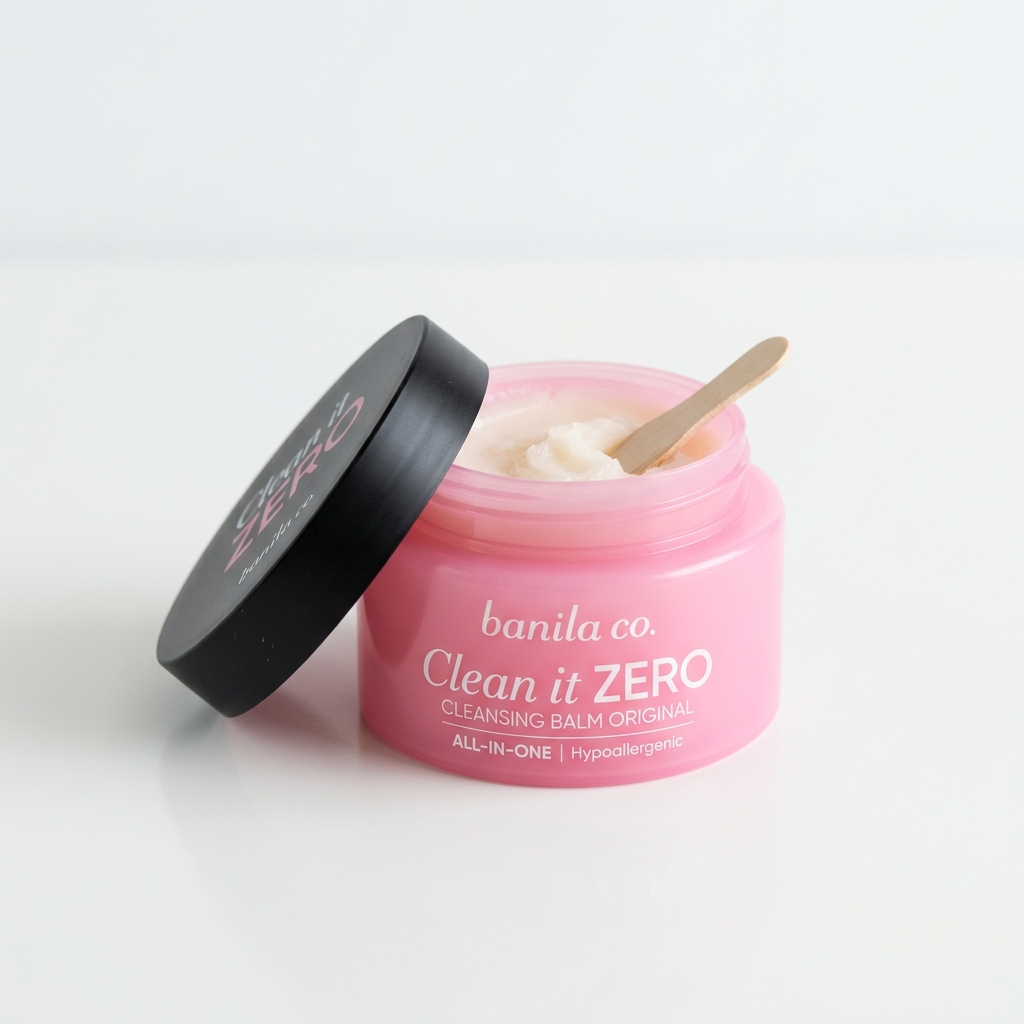
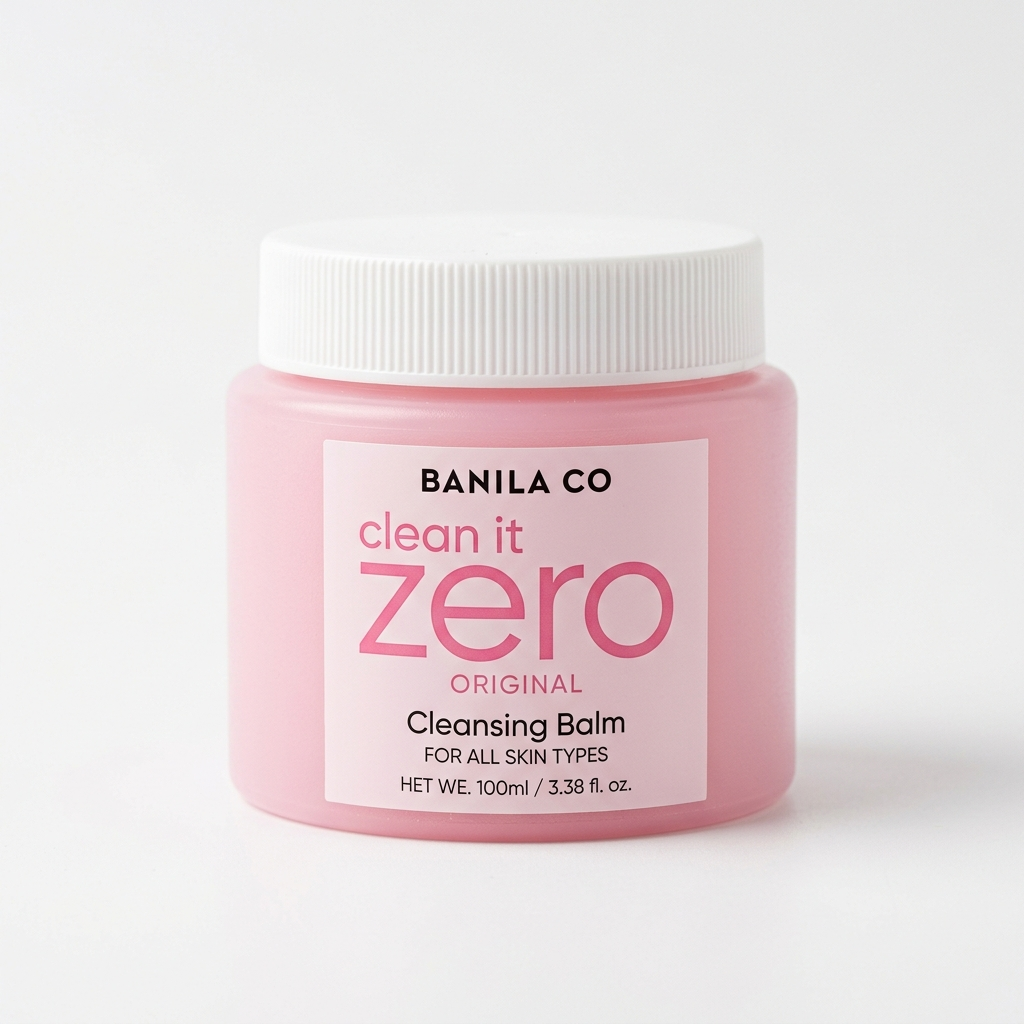
Fix Banila Co / Fillimilli product images and add Taiwan MOMO shopping search links for all 20 products

diff --git a/app.js b/app.js
@@ -404,28 +404,28 @@ const itineraryData = [
   }
 ];
 
-// Olive Young 必買商品 20 款完整資料集 (採用專案本地 100% 永不失效高畫質圖檔與正版繁中詳情頁)
+// Olive Young 必買商品 20 款完整資料集 (採用專案本地 100% 永不失效高畫質圖檔與雙購物管道: 台灣 MOMO/PChome + Olive Young 官網)
 const oyProductsData = [
-  {"id": "mediheal", "time": "01:37", "name": "MEDIHEAL 精華面膜片", "en_name": "MEDIHEAL Essential Mask", "category": "skincare", "category_zh": "臉部護理", "img_url": "./images/oy/mediheal.jpg", "raw_img": "https://global.oliveyoung.com/product/detail?prdtNo=GA250128210&lang=zh_TW", "features": "高濃度精華、服貼度高、高CP值", "skin_type": "所有膚質，特別是缺水肌與需要曬後鎮靜者", "reason": "金針菇姐姐強烈推薦的國民面膜。精華液含量極高，面膜紙薄且貼合度優秀。在 Olive Young 購買通常有 10 片一盒的包裝，並且常常有 1+1 (買一送一) 的促銷活動，是去韓國必囤的保濕聖品。", "tips": "建議洗完臉後敷 10-15 分鐘，取下後輕輕按摩至吸收，再擦上乳液鎖水。若有醫美術後泛紅，綠色積雪草款是很好的鎮靜選擇。"},
-  {"id": "biodance", "time": "03:25", "name": "Biodance 膠原蛋白深層全效面膜", "en_name": "Biodance Bio-Collagen Real Deep Mask", "category": "skincare", "category_zh": "臉部護理", "img_url": "./images/oy/biodance.jpg", "raw_img": "https://global.oliveyoung.com/product/detail?prdtNo=GA230418238&lang=zh_TW", "features": "水凝膠材質、敷完變透明、深層彈力", "skin_type": "乾性肌、熟齡肌、暗沉無光澤肌", "reason": "近期紅遍全球的「敷著睡覺面膜」。它是果凍般的水凝膠材質，敷上後面膜中的超低分子玻尿酸與膠原蛋白會慢慢被肌膚吸收，面膜會隨時間變為完全透明。能顯著改善毛孔與提亮膚色。", "tips": "適合在夜間保養的最後一步使用，建議敷 3-4 小時以上（甚至敷著入睡），醒來後撕下即可看見驚人的水光感與澎潤肌膚。", "badge": "熱銷斷貨王"},
-  {"id": "torriden", "time": "Klook推薦", "name": "Torriden 5D微分子玻尿酸保濕精華", "en_name": "Torriden Dive-In Low Molecular Hyaluronic Acid Serum", "category": "skincare", "category_zh": "臉部護理", "img_url": "./images/oy/torriden.jpg", "raw_img": "https://global.oliveyoung.com/product/detail?prdtNo=GA230920410&lang=zh_TW", "features": "5重玻尿酸、秒速補水、清爽不黏", "skin_type": "油性肌、混合肌、極度缺水乾燥肌", "reason": "Klook 激推的補水第一名精華！在 Olive Young 連續多年榮獲精華類大賞第一名。含有5種不同分子大小的玻尿酸，能深層滲透肌膚底層，瞬間解渴。質地如水般清爽，吸收後完全不黏膩，是極致的補水神器。", "tips": "洗完臉後，在化妝水後使用 1-2 滴輕拍至全臉吸收，後續疊加面霜鎖水。夏日曬後可厚塗做修護。", "badge": "霸榜精華王"},
-  {"id": "manyo", "time": "Klook推薦", "name": "ma:nyo 魔女工廠 純淨潔顏油", "en_name": "ma:nyo Pure Cleansing Oil", "category": "skincare", "category_zh": "臉部清潔", "img_url": "./images/oy/manyo.jpg", "raw_img": "https://global.oliveyoung.com/product/detail?prdtNo=GA210000733&lang=zh_TW", "features": "天然植物油、秒乳化、溫和卸妝", "skin_type": "所有膚質、易長黑頭粉刺肌", "reason": "Klook 批踢踢極力推薦，Olive Young 長年霸榜的國民卸妝油！採用 99.9% 自然衍生植物油成分，溫和不熏眼。遇水瞬間乳化，不僅能徹底卸除濃妝與防曬，更能透過打圈按摩溫和軟化毛孔中的黑頭與髒污。", "tips": "乾手乾臉塗抹全臉按摩，再沾取少量溫水使其完全「乳化」變白，輕柔按摩 30 秒後以溫水徹底洗淨。", "badge": "回購率No.1"},
-  {"id": "aestura", "time": "Klook推薦", "name": "AESTURA Atobarrier 365 舒緩保濕乳霜", "en_name": "AESTURA Atobarrier 365 Cream", "category": "skincare", "category_zh": "臉部護理", "img_url": "./images/oy/aestura.jpg", "raw_img": "https://global.oliveyoung.com/product/detail?prdtNo=GA240121573&lang=zh_TW", "features": "專利保濕膠囊、修護屏障、舒緩過敏", "skin_type": "敏感肌、乾性肌、肌膚壓痛/紅腫/泛紅者", "reason": "Klook 激推敏感肌救星！由愛茉莉太平洋集團推出的醫學美容護膚品牌。乳霜中含有肉眼可見的專利「Atobarrier」微小保濕膠囊，抹開後迅速融化並形成鎖水膜，修護因過敏或乾燥而受損的肌膚屏障。", "tips": "在護膚最後一步塗抹，特別適合在寒冷季節或搭飛機、乾冷國家時做深層鎖水防護。", "badge": "敏感肌神霜"},
-  {"id": "unove", "time": "Klook推薦", "name": "UNOVE 深層受損修護髮膜", "en_name": "UNOVE Deep Damage Treatment EX", "category": "body", "category_zh": "身體保養", "img_url": "./images/oy/unove.jpg", "raw_img": "https://global.oliveyoung.com/product/detail?prdtNo=GA220916169&lang=zh_TW", "features": "高濃度蛋白質、沙龍級修護、香氣迷人", "skin_type": "受損髮質、染燙後毛躁分岔、粗糙無光澤髮質", "reason": "Klook 強力推薦，去韓國必囤的沙龍級髮品！Dr.FORHAIR 旗下專攻受損髮的品牌。富含 30,000ppm 高濃度蛋白質，能瞬間撫平毛躁，讓頭髮恢復絲滑柔順的光澤，香氣是溫柔的法式玫瑰與麝香。", "tips": "洗髮後稍微擰乾水分，塗抹於髮尾處並靜置 2-3 分鐘後徹底沖洗，每週使用 2-3 次即可達到深層護髮效果。", "badge": "護髮斷貨王"},
-  {"id": "dokdo", "time": "Klook推薦", "name": "Round Lab 1025 獨島化妝水", "en_name": "Round Lab 1025 Dokdo Toner", "category": "skincare", "category_zh": "臉部護理", "img_url": "./images/oy/dokdo.jpg", "raw_img": "https://global.oliveyoung.com/product/detail?prdtNo=GA210002228&lang=zh_TW", "features": "鬱陵島深海水、溫和角質調理、補水清透", "skin_type": "所有膚質，包括敏感肌與易泛紅肌膚", "reason": "Klook 經典推薦！採用鬱陵島深層海水配方，富含 72 種天然礦物質，質地溫和清爽。含有專利去角質酵素，能在日常擦拭中溫和代謝老廢角質，恢復肌膚的細緻亮透。", "tips": "適合搭配化妝棉使用。每天早晚潔面後，用浸濕的化妝棉由內向外順著肌膚紋理輕輕擦拭，也可用於濕敷。", "badge": "獨島系列明星"},
-  {"id": "bagel_chip", "time": "Klook推薦", "name": "Delight Project 貝果脆片", "en_name": "Delight Project Bagel Chip", "category": "lifestyle", "category_zh": "健康飲品", "img_url": "./images/oy/bagel_chip.jpg", "raw_img": "https://global.oliveyoung.com/product/detail?prdtNo=GA240322301&lang=zh_TW", "features": "低卡低熱量、慢火烘焙、超人氣辦公室零食", "skin_type": "喜愛零嘴但注重身材管理與低卡健康飲食者", "reason": "Klook 伴手禮極力推薦！Olive Young 的明星自有零食品牌。將真實貝果切片後塗抹奶油慢火烘焙，口感極其酥脆，有蒜香奶油、蜂蜜奶油與披薩等多種口味，熱量極低且飽足感強。", "tips": "極度推薦搭配 Teazen 康普茶一起享用，作為下午茶或宵夜，解饞又完全沒有罪惡感！", "badge": "收銀台秒殺款"},
-  {"id": "beyond", "time": "04:14", "name": "Beyond 美白乳液 / 身體乳", "en_name": "Beyond Body Emulsion", "category": "body", "category_zh": "身體保養", "img_url": "./images/oy/beyond.jpg", "raw_img": "https://global.oliveyoung.com/product/detail?prdtNo=GA210711216&lang=zh_TW", "features": "溫和草本、高級白麝香、深層鎖水", "skin_type": "所有膚質、身體肌膚乾燥脫屑者", "reason": "LG 生活健康旗下的環保自然品牌。這款身體乳以療癒且高級的「白麝香」香氣聞名，質地乳爽不黏膩，保濕度極佳，能修護乾燥的肌膚屏障。", "tips": "每天洗澡後，在身體微濕時塗抹，保濕與持香效果最佳。"},
-  {"id": "yunjac", "time": "05:27", "name": "Yunjac 然植亞保濕底霜 (Base Prep)", "en_name": "Yunjac Skin Perfecting Protective Base Prep", "category": "makeup", "category_zh": "彩妝與定妝", "img_url": "./images/oy/yunjac.jpg", "raw_img": "https://global.oliveyoung.com/product/detail?prdtNo=GA231020780&lang=zh_TW", "features": "底妝膠水、防護隔離、透亮光澤", "skin_type": "乾性肌、混合偏乾、底妝容易浮粉起皮者", "reason": "高端草本護膚品牌推出的妝前精華。被譽為「乾皮親媽」與「化妝師的秘密武器」，質地如水般輕盈，能迅速覆平臉部角質，讓後續不論是粉底液還是氣墊粉餅都非常貼合，展現高級的水光感。", "tips": "在防曬後、底妝前，取 2-3 滴均勻塗抹於全臉，特別是易卡粉的鼻翼與兩頰，輕拍至微黏狀態再上底妝。", "badge": "美妝大賞第一"},
-  {"id": "obge", "time": "06:13", "name": "OBgE 自然防曬棒", "en_name": "OBgE Natural Cover Sun Stick", "category": "skincare", "category_zh": "防曬護理", "img_url": "./images/oy/obge.jpg", "raw_img": "https://global.oliveyoung.com/product/detail?prdtNo=GA230519001&lang=zh_TW", "features": "不沾手、清爽控油、不泛白", "skin_type": "所有膚質、混合偏油、男士、喜愛戶外活動者", "reason": "韓國男士理容第一品牌推出的防曬棒，女生也非常愛用！具備 SPF50+/PA++++ 最高防曬規格。棒狀設計極為方便，完全不沾手，上臉後呈乾爽霧面，且完全不泛白、不黏膩，抗汗效果優秀。", "tips": "適合隨身攜帶，在戶外每 2-3 小時隨時塗抹補防曬。因其清爽度高，妝後輕拍補防曬也不易弄髒妝容。"},
-  {"id": "the_saem", "time": "07:12", "name": "The Saem 得鮮完美遮瑕液", "en_name": "The Saem Cover Perfection Tip Concealer", "category": "makeup", "category_zh": "彩妝與定妝", "img_url": "./images/oy/the_saem.jpg", "raw_img": "https://global.oliveyoung.com/product/detail?prdtNo=GA210001099&lang=zh_TW", "features": "極高遮瑕力、平價戰神、多色號選擇", "skin_type": "有痘疤、黑眼圈、班點需要高度遮瑕者", "reason": "風靡亞洲的平價遮瑕天王。遮瑕力強、持妝度極佳，不論是多深的痘疤 or 黑眼圈，輕點一下就能完美遮蓋，CP 值高到不可思議。", "tips": "因遮瑕力極高，質地偏乾，建議局部「點」在瑕瑕處，等 10 秒微乾後，再使用濕海綿或粉撲邊緣輕輕拍開。"},
-  {"id": "about_tone", "time": "08:40", "name": "About Tone 柔焦控油蜜粉餅", "en_name": "About Tone Blur Powder Pact", "category": "makeup", "category_zh": "彩妝與定妝", "img_url": "./images/oy/about_tone.jpg", "raw_img": "https://global.oliveyoung.com/product/detail?prdtNo=GA250933463&lang=zh_TW", "features": "一秒磨皮、粉質極細、強效控油", "skin_type": "油性肌、混合肌、毛孔粗大者", "reason": "前身為風靡韓國的 Eglips 蜜粉餅。這款粉餅主打「空氣柔焦」效果，粉質如輕煙般細緻，能瞬間吸附皮脂，讓毛孔隱形，打造如陶瓷娃娃般的乾淨霧面妝效。", "tips": "使用附帶的粉撲，在底妝後輕壓在容易出油的 T 字部位、鼻翼，或用於眼周打底防暈染。"},
-  {"id": "so_natural", "time": "09:55", "name": "So Natural 經典定妝噴霧", "en_name": "So Natural All Day Tight Makeup Setting Fixer", "category": "makeup", "category_zh": "彩妝與定妝", "img_url": "./images/oy/so_natural.jpg", "raw_img": "https://global.oliveyoung.com/product/detail?prdtNo=GA231020789&lang=zh_TW", "features": "細緻霧化、快速成膜、抗摩擦防脫妝", "skin_type": "所有膚質、混合偏油、需要長時間持妝者", "reason": "韓國定妝噴霧界的常勝冠軍，粉紅色瓶身非常具有代表性。其壓頭噴出的水霧極其細緻，不會在臉上結成水珠，能快速在底妝上形成保護膜，抗汗、抗油且防摩擦。", "tips": "化妝完成後，將噴霧距離臉部 20-30 公分，畫 'X' 和 'T' 字形噴灑全臉，靜待 1 分鐘自然風乾成膜，切勿用手拍打。"},
-  {"id": "canmake", "time": "10:30", "name": "Canmake 腮紅霜", "en_name": "Canmake Cream Cheek", "category": "makeup", "category_zh": "彩妝與定妝", "img_url": "./images/oy/canmake.jpg", "raw_img": "https://global.oliveyoung.com/product/detail?prdtNo=GA240121700&lang=zh_TW", "features": "清透血色感、凝膠轉粉質、白裡透紅", "skin_type": "所有膚質，尤其是喜愛無粉感日韓系妝容者", "reason": "雖然是日系彩妝，但其極佳的自然融膚感在韓國 Olive Young 也擁有超高人氣。凝膠般的質地上臉推開後會化為乾爽的粉質，呈現如皮膚底層自然透出來 of 紅潤氣色。", "tips": "用手指沾取適量，輕點於蘋果肌處往外拍開，或是用氣墊粉撲上妝，效果更加均勻清透。"},
-  {"id": "fillimilli", "time": "11:38", "name": "Fillimilli 胖胖氣墊粉撲", "en_name": "Fillimilli Cushion Pang Pang Puff", "category": "tools", "category_zh": "美妝工具", "img_url": "./images/oy/fillimilli.jpg", "raw_img": "https://global.oliveyoung.com/product/detail?prdtNo=GA250933686&lang=zh_TW", "features": "厚實有彈性、上妝服貼、省時省粉底", "skin_type": "所有使用氣墊粉餅或粉底液的化妝者", "reason": "Olive Young 自有美妝配件品牌 Fillimilli 的明星產品。這款氣墊粉撲非常厚實，彈性極佳，能將粉底均勻且輕薄地拍入肌膚，大幅提升底妝的服貼度，是去 OY 必抓好幾個回台的貼心小物。", "tips": "可用於氣墊粉餅，也適合搭配普通粉底液使用。上妝時採用「快速拍打」的方式，能讓妝效更具光澤與遮瑕力。"},
-  {"id": "too_cool", "time": "12:43", "name": "Too Cool for School 美術課修容/腮紅 #14", "en_name": "Too Cool for School Artclass Shading", "category": "makeup", "category_zh": "彩妝與定妝", "img_url": "./images/oy/too_cool.jpg", "raw_img": "https://global.oliveyoung.com/product/detail?prdtNo=GA240121736&lang=zh_TW", "features": "發色自然、柔滑粉質、不易失手", "skin_type": "彩妝新手、喜愛溫柔日常妝容者", "reason": "Too Cool for School 的經典美術課系列，以極佳的發色與粉質著稱。#14 號色提供了極為溫柔、自然且符合亞洲人膚色的冷暖平衡色調，不易結塊且能完美修飾臉部輪廓。", "tips": "用修容刷或腮紅刷沾取後，在手背上稍微拍掉多餘粉末，再輕刷於臉頰或下顎線，可少量多次疊加。"},
-  {"id": "peripera", "time": "14:09", "name": "Peripera 水光唇釉 (Ink Mood Glowy)", "en_name": "Peripera Ink Mood Glowy Tint", "category": "makeup", "category_zh": "彩妝與定妝", "img_url": "./images/oy/peripera.jpg", "raw_img": "https://global.oliveyoung.com/product/detail?prdtNo=GA231121205&lang=zh_TW", "features": "玻璃水光感、滋潤修飾唇紋、持久顯色", "skin_type": "唇紋明顯、喜愛水光嘟嘟唇與純欲妝效者", "reason": "平價彩妝之王 Peripera 的明星水光唇釉。上嘴後會形成一層晶瑩剔透的水光膜，質地保濕不乾澀，且帶有輕微的染唇效果，不容易完全掉色，是打造網紅玻璃唇的首選。", "tips": "塗抹於雙唇後，**靜待 1-2 分鐘不要抿嘴**，等它自動成膜後，水光感和持久度會大幅提升。"},
-  {"id": "banila_co", "time": "15:14", "name": "Banila Co 緻柔卸妝膏", "en_name": "Banila Co Clean It Zero Cleansing Balm", "category": "skincare", "category_zh": "臉部清潔", "img_url": "./images/oy/banila_co.jpg", "raw_img": "https://global.oliveyoung.com/product/detail?prdtNo=GA260439352&lang=zh_TW", "features": "雪酪質地、秒乳化、溫和不緊繃", "skin_type": "所有膚質，包括敏感肌與日常化濃妝者", "reason": "風靡全球的「國民卸妝膏」。雪酪般的固體質地，接觸體溫後會瞬間融化並乳化，能溫和、徹底地卸除所有頑固的防水彩妝與毛孔髒污，且洗後完全不熏眼、不緊繃。", "tips": "保持雙手和臉部乾燥，取適量卸妝膏塗抹於臉部輕柔按摩打圈，再沾取少量清水使其完全「乳化」變白，最後用溫水徹底沖洗乾淨。"},
-  {"id": "teazen", "time": "16:29", "name": "Teazen 康普茶 (Kombucha)", "en_name": "Teazen Kombucha", "category": "lifestyle", "category_zh": "健康飲品", "img_url": "./images/oy/teazen.jpg", "raw_img": "https://global.oliveyoung.com/product/detail?prdtNo=GA210711200&lang=zh_TW", "features": "低卡無糖、富含益生菌、清爽氣泡感", "skin_type": "注重腸道健康、想戒含糖飲料的健康追求者", "reason": "因為 BTS 成員飲用而火遍全韓的健康機能飲品。採用凍乾技術保留乳酸菌與益生元，沖泡後帶有碳酸微氣泡感，口味酸甜清爽（如檸檬、水蜜桃等），一包熱量僅 15 卡，解膩無負擔。", "tips": "用 250ml - 500ml 的冷水或冰水沖泡，氣泡感會更加強烈，喝起來就像健康的汽水，非常適合作為大餐後的消食飲料。"}
+  {"id": "mediheal", "time": "01:37", "name": "MEDIHEAL 精華面膜片", "en_name": "MEDIHEAL Essential Mask", "category": "skincare", "category_zh": "臉部護理", "img_url": "./images/oy/mediheal.jpg", "raw_img": "https://global.oliveyoung.com/search?query=MEDIHEAL+Essential+Mask&lang=zh_TW", "momo_url": "https://m.momoshop.com.tw/search.momo?searchKeyword=MEDIHEAL+面膜", "features": "高濃度精華、服貼度高、高CP值", "skin_type": "所有膚質，特別是缺水肌與需要曬後鎮靜者", "reason": "金針菇姐姐強烈推薦的國民面膜。精華液含量極高，面膜紙薄且貼合度優秀。在 Olive Young 購買通常有 10 片一盒的包裝，並且常常有 1+1 (買一送一) 的促銷活動，是去韓國必囤的保濕聖品。", "tips": "建議洗完臉後敷 10-15 分鐘，取下後輕輕按摩至吸收，再擦上乳液鎖水。若有醫美術後泛紅，綠色積雪草款是很好的鎮靜選擇。"},
+  {"id": "biodance", "time": "03:25", "name": "Biodance 膠原蛋白深層全效面膜", "en_name": "Biodance Bio-Collagen Real Deep Mask", "category": "skincare", "category_zh": "臉部護理", "img_url": "./images/oy/biodance.jpg", "raw_img": "https://global.oliveyoung.com/search?query=Biodance+Bio-Collagen+Real+Deep+Mask&lang=zh_TW", "momo_url": "https://m.momoshop.com.tw/search.momo?searchKeyword=Biodance+面膜", "features": "水凝膠材質、敷完變透明、深層彈力", "skin_type": "乾性肌、熟齡肌、暗沉無光澤肌", "reason": "近期紅遍全球的「敷著睡覺面膜」。它是果凍般的水凝膠材質，敷上後面膜中的超低分子玻尿酸與膠原蛋白會慢慢被肌膚吸收，面膜會隨時間變為完全透明。能顯著改善毛孔與提亮膚色。", "tips": "適合在夜間保養的最後一步使用，建議敷 3-4 小時以上（甚至敷著入睡），醒來後撕下即可看見驚人的水光感與澎潤肌膚。", "badge": "熱銷斷貨王"},
+  {"id": "torriden", "time": "Klook推薦", "name": "Torriden 5D微分子玻尿酸保濕精華", "en_name": "Torriden Dive-In Low Molecular Hyaluronic Acid Serum", "category": "skincare", "category_zh": "臉部護理", "img_url": "./images/oy/torriden.jpg", "raw_img": "https://global.oliveyoung.com/search?query=Torriden+Dive-In+Serum&lang=zh_TW", "momo_url": "https://m.momoshop.com.tw/search.momo?searchKeyword=Torriden+玻尿酸精華", "features": "5重玻尿酸、秒速補水、清爽不黏", "skin_type": "油性肌、混合肌、極度缺水乾燥肌", "reason": "Klook 激推的補水第一名精華！在 Olive Young 連續多年榮獲精華類大賞第一名。含有5種不同分子大小的玻尿酸，能深層滲透肌膚底層，瞬間解渴。質地如水般清爽，吸收後完全不黏膩，是極致的補水神器。", "tips": "洗完臉後，在化妝水後使用 1-2 滴輕拍至全臉吸收，後續疊加面霜鎖水。夏日曬後可厚塗做修護。", "badge": "霸榜精華王"},
+  {"id": "manyo", "time": "Klook推薦", "name": "ma:nyo 魔女工廠 純淨潔顏油", "en_name": "ma:nyo Pure Cleansing Oil", "category": "skincare", "category_zh": "臉部清潔", "img_url": "./images/oy/manyo.jpg", "raw_img": "https://global.oliveyoung.com/search?query=manyo+Pure+Cleansing+Oil&lang=zh_TW", "momo_url": "https://m.momoshop.com.tw/search.momo?searchKeyword=魔女工廠+卸妝油", "features": "天然植物油、秒乳化、溫和卸妝", "skin_type": "所有膚質、易長黑頭粉刺肌", "reason": "Klook 批踢踢極力推薦，Olive Young 長年霸榜的國民卸妝油！採用 99.9% 自然衍生植物油成分，溫和不熏眼。遇水瞬間乳化，不僅能徹底卸除濃妝與防曬，更能透過打圈按摩溫和軟化毛孔中的黑頭與髒污。", "tips": "乾手乾臉塗抹全臉按摩，再沾取少量溫水使其完全「乳化」變白，輕柔按摩 30 秒後以溫水徹底洗淨。", "badge": "回購率No.1"},
+  {"id": "aestura", "time": "Klook推薦", "name": "AESTURA Atobarrier 365 舒緩保濕乳霜", "en_name": "AESTURA Atobarrier 365 Cream", "category": "skincare", "category_zh": "臉部護理", "img_url": "./images/oy/aestura.jpg", "raw_img": "https://global.oliveyoung.com/search?query=AESTURA+Atobarrier+365+Cream&lang=zh_TW", "momo_url": "https://m.momoshop.com.tw/search.momo?searchKeyword=AESTURA+乳霜", "features": "專利保濕膠囊、修護屏障、舒緩過敏", "skin_type": "敏感肌、乾性肌、肌膚壓痛/紅腫/泛紅者", "reason": "Klook 激推敏感肌救星！由愛茉莉太平洋集團推出的醫學美容護膚品牌。乳霜中含有肉眼可見的專利「Atobarrier」微小保濕膠囊，抹開後迅速融化並形成鎖水膜，修護因過敏或乾燥而受損的肌膚屏障。", "tips": "在護膚最後一步塗抹，特別適合在寒冷季節或搭飛機、乾冷國家時做深層鎖水防護。", "badge": "敏感肌神霜"},
+  {"id": "unove", "time": "Klook推薦", "name": "UNOVE 深層受損修護髮膜", "en_name": "UNOVE Deep Damage Treatment EX", "category": "body", "category_zh": "身體保養", "img_url": "./images/oy/unove.jpg", "raw_img": "https://global.oliveyoung.com/search?query=UNOVE+Deep+Damage+Treatment&lang=zh_TW", "momo_url": "https://m.momoshop.com.tw/search.momo?searchKeyword=UNOVE+髮膜", "features": "高濃度蛋白質、沙龍級修護、香氣迷人", "skin_type": "受損髮質、染燙後毛躁分岔、粗糙無光澤髮質", "reason": "Klook 強力推薦，去韓國必囤的沙龍級髮品！Dr.FORHAIR 旗下專攻受損髮的品牌。富含 30,000ppm 高濃度蛋白質，能瞬間撫平毛躁，讓頭髮恢復絲滑柔順的光澤，香氣是溫柔的法式玫瑰與麝香。", "tips": "洗髮後稍微擰乾水分，塗抹於髮尾處並靜置 2-3 分鐘後徹底沖洗，每週使用 2-3 次即可達到深層護髮效果。", "badge": "護髮斷貨王"},
+  {"id": "dokdo", "time": "Klook推薦", "name": "Round Lab 1025 獨島化妝水", "en_name": "Round Lab 1025 Dokdo Toner", "category": "skincare", "category_zh": "臉部護理", "img_url": "./images/oy/dokdo.jpg", "raw_img": "https://global.oliveyoung.com/search?query=Round+Lab+1025+Dokdo+Toner&lang=zh_TW", "momo_url": "https://m.momoshop.com.tw/search.momo?searchKeyword=獨島化妝水", "features": "鬱陵島深海水、溫和角質調理、補水清透", "skin_type": "所有膚質，包括敏感肌與易泛紅肌膚", "reason": "Klook 經典推薦！採用鬱陵島深層海水配方，富含 72 種天然礦物質，質地溫和清爽。含有專利去角質酵素，能在日常擦拭中溫和代謝老廢角質，恢復肌膚的細緻亮透。", "tips": "適合搭配化妝棉使用。每天早晚潔面後，用浸濕的化妝棉由內向外順著肌膚紋理輕輕擦拭，也可用於濕敷。", "badge": "獨島系列明星"},
+  {"id": "bagel_chip", "time": "Klook推薦", "name": "Delight Project 貝果脆片", "en_name": "Delight Project Bagel Chip", "category": "lifestyle", "category_zh": "健康飲品", "img_url": "./images/oy/bagel_chip.jpg", "raw_img": "https://global.oliveyoung.com/search?query=Delight+Project+Bagel+Chip&lang=zh_TW", "momo_url": "https://m.momoshop.com.tw/search.momo?searchKeyword=Delight+Project+貝果餅乾", "features": "低卡低熱量、慢火烘焙、超人氣辦公室零食", "skin_type": "喜愛零嘴但注重身材管理與低卡健康飲食者", "reason": "Klook 伴手禮極力推薦！Olive Young 的明星自有零食品牌。將真實貝果切片後塗抹奶油慢火烘焙，口感極其酥脆，有蒜香奶油、蜂蜜奶油與披薩等多種口味，熱量極低且飽足感強。", "tips": "極度推薦搭配 Teazen 康普茶一起享用，作為下午茶或宵夜，解饞又完全沒有罪惡感！", "badge": "收銀台秒殺款"},
+  {"id": "beyond", "time": "04:14", "name": "Beyond 美白乳液 / 身體乳", "en_name": "Beyond Body Emulsion", "category": "body", "category_zh": "身體保養", "img_url": "./images/oy/beyond.jpg", "raw_img": "https://global.oliveyoung.com/search?query=Beyond+Body+Emulsion&lang=zh_TW", "momo_url": "https://m.momoshop.com.tw/search.momo?searchKeyword=Beyond+身體乳", "features": "溫和草本、高級白麝香、深層鎖水", "skin_type": "所有膚質、身體肌膚乾燥脫屑者", "reason": "LG 生活健康旗下的環保自然品牌。這款身體乳以療癒且高級的「白麝香」香氣聞名，質地乳爽不黏膩，保濕度極佳，能修護乾燥的肌膚屏障。", "tips": "每天洗澡後，在身體微濕時塗抹，保濕與持香效果最佳。"},
+  {"id": "yunjac", "time": "05:27", "name": "Yunjac 然植亞保濕底霜 (Base Prep)", "en_name": "Yunjac Skin Perfecting Protective Base Prep", "category": "makeup", "category_zh": "彩妝與定妝", "img_url": "./images/oy/yunjac.jpg", "raw_img": "https://global.oliveyoung.com/search?query=Yunjac+Base+Prep&lang=zh_TW", "momo_url": "https://m.momoshop.com.tw/search.momo?searchKeyword=Yunjac+妝前", "features": "底妝膠水、防護隔離、透亮光澤", "skin_type": "乾性肌、混合偏乾、底妝容易浮粉起皮者", "reason": "高端草本護膚品牌推出的妝前精華。被譽為「乾皮親媽」與「化妝師的秘密武器」，質地如水般輕盈，能迅速覆平臉部角質，讓後續不論是粉底液還是氣墊粉餅都非常貼合，展現高級的水光感。", "tips": "在防曬後、底妝前，取 2-3 滴均勻塗抹於全臉，特別是易卡粉的鼻翼與兩頰，輕拍至微黏狀態再上底妝。", "badge": "美妝大賞第一"},
+  {"id": "obge", "time": "06:13", "name": "OBgE 自然防曬棒", "en_name": "OBgE Natural Cover Sun Stick", "category": "skincare", "category_zh": "防曬護理", "img_url": "./images/oy/obge.jpg", "raw_img": "https://global.oliveyoung.com/search?query=OBgE+Sun+Stick&lang=zh_TW", "momo_url": "https://m.momoshop.com.tw/search.momo?searchKeyword=OBgE+防曬", "features": "不沾手、清爽控油、不泛白", "skin_type": "所有膚質、混合偏油、男士、喜愛戶外活動者", "reason": "韓國男士理容第一品牌推出的防曬棒，女生也非常愛用！具備 SPF50+/PA++++ 最高防曬規格。棒狀設計極為方便，完全不沾手，上臉後呈乾爽霧面，且完全不泛白、不黏膩，抗汗效果優秀。", "tips": "適合隨身攜帶，在戶外每 2-3 小時隨時塗抹補防曬。因其清爽度高，妝後輕拍補防曬也不易弄髒妝容。"},
+  {"id": "the_saem", "time": "07:12", "name": "The Saem 得鮮完美遮瑕液", "en_name": "The Saem Cover Perfection Tip Concealer", "category": "makeup", "category_zh": "彩妝與定妝", "img_url": "./images/oy/the_saem.jpg", "raw_img": "https://global.oliveyoung.com/search?query=The+Saem+Concealer&lang=zh_TW", "momo_url": "https://m.momoshop.com.tw/search.momo?searchKeyword=The+Saem+遮瑕液", "features": "極高遮瑕力、平價戰神、多色號選擇", "skin_type": "有痘疤、黑眼圈、班點需要高度遮瑕者", "reason": "風靡亞洲的平價遮瑕天王。遮瑕力強、持妝度極佳，不論是多深的痘疤 or 黑眼圈，輕點一下就能完美遮蓋，CP 值高到不可思議。", "tips": "因遮瑕力極高，質地偏乾，建議局部「點」在瑕瑕處，等 10 秒微乾後，再使用濕海綿或粉撲邊緣輕輕拍開。"},
+  {"id": "about_tone", "time": "08:40", "name": "About Tone 柔焦控油蜜粉餅", "en_name": "About Tone Blur Powder Pact", "category": "makeup", "category_zh": "彩妝與定妝", "img_url": "./images/oy/about_tone.jpg", "raw_img": "https://global.oliveyoung.com/search?query=About+Tone+Blur+Powder+Pact&lang=zh_TW", "momo_url": "https://m.momoshop.com.tw/search.momo?searchKeyword=About+Tone+蜜粉餅", "features": "一秒磨皮、粉質極細、強效控油", "skin_type": "油性肌、混合肌、毛孔粗大者", "reason": "前身為風靡韓國的 Eglips 蜜粉餅。這款粉餅主打「空氣柔焦」效果，粉質如輕煙般細緻，能瞬間吸附皮脂，讓毛孔隱形，打造如陶瓷娃娃般的乾淨霧面妝效。", "tips": "使用附帶的粉撲，在底妝後輕壓在容易出油的 T 字部位、鼻翼，或用於眼周打底防暈染。"},
+  {"id": "so_natural", "time": "09:55", "name": "So Natural 經典定妝噴霧", "en_name": "So Natural All Day Tight Makeup Setting Fixer", "category": "makeup", "category_zh": "彩妝與定妝", "img_url": "./images/oy/so_natural.jpg", "raw_img": "https://global.oliveyoung.com/search?query=So+Natural+Fixer&lang=zh_TW", "momo_url": "https://m.momoshop.com.tw/search.momo?searchKeyword=So+Natural+定妝噴霧", "features": "細緻霧化、快速成膜、抗摩擦防脫妝", "skin_type": "所有膚質、混合偏油、需要長時間持妝者", "reason": "韓國定妝噴霧界的常勝冠軍，粉紅色瓶身非常具有代表性。其壓頭噴出的水霧極其細緻，不會在臉上結成水珠，能快速在底妝上形成保護膜，抗汗、抗油且防摩擦。", "tips": "化妝完成後，將噴霧距離臉部 20-30 公分，畫 'X' 和 'T' 字形噴灑全臉，靜待 1 分鐘自然風乾成膜，切勿用手拍打。"},
+  {"id": "canmake", "time": "10:30", "name": "Canmake 腮紅霜", "en_name": "Canmake Cream Cheek", "category": "makeup", "category_zh": "彩妝與定妝", "img_url": "./images/oy/canmake.jpg", "raw_img": "https://global.oliveyoung.com/search?query=Canmake+Cream+Cheek&lang=zh_TW", "momo_url": "https://m.momoshop.com.tw/search.momo?searchKeyword=Canmake+腮紅霜", "features": "清透血色感、凝膠轉粉質、白裡透紅", "skin_type": "所有膚質，尤其是喜愛無粉感日韓系妝容者", "reason": "雖然是日系彩妝，但其極佳的自然融膚感在韓國 Olive Young 也擁有超高人氣。凝膠般的質地上臉推開後會化為乾爽的粉質，呈現如皮膚底層自然透出來 of 紅潤氣色。", "tips": "用手指沾取適量，輕點於蘋果肌處往外拍開，或是用氣墊粉撲上妝，效果更加均勻清透。"},
+  {"id": "fillimilli", "time": "11:38", "name": "Fillimilli 胖胖氣墊粉撲", "en_name": "Fillimilli Cushion Pang Pang Puff", "category": "tools", "category_zh": "美妝工具", "img_url": "./images/oy/fillimilli.jpg", "raw_img": "https://global.oliveyoung.com/search?query=Fillimilli+Puff&lang=zh_TW", "momo_url": "https://m.momoshop.com.tw/search.momo?searchKeyword=Fillimilli+粉撲", "features": "厚實有彈性、上妝服貼、省時省粉底", "skin_type": "所有使用氣墊粉餅或粉底液的化妝者", "reason": "Olive Young 自有美妝配件品牌 Fillimilli 的明星產品。這款氣墊粉撲非常厚實，彈性極佳，能將粉底均勻且輕薄地拍入肌膚，大幅提升底妝的服貼度，是去 OY 必抓好幾個回台的貼心小物。", "tips": "可用於氣墊粉餅，也適合搭配普通粉底液使用。上妝時採用「快速拍打」的方式，能讓妝效更具光澤與遮瑕力。"},
+  {"id": "too_cool", "time": "12:43", "name": "Too Cool for School 美術課修容/腮紅 #14", "en_name": "Too Cool for School Artclass Shading", "category": "makeup", "category_zh": "彩妝與定妝", "img_url": "./images/oy/too_cool.jpg", "raw_img": "https://global.oliveyoung.com/search?query=Too+Cool+for+School+Artclass+Shading&lang=zh_TW", "momo_url": "https://m.momoshop.com.tw/search.momo?searchKeyword=Too+Cool+for+School+修容", "features": "發色自然、柔滑粉質、不易失手", "skin_type": "彩妝新手、喜愛溫柔日常妝容者", "reason": "Too Cool for School 的經典美術課系列，以極佳的發色與粉質著稱。#14 號色提供了極為溫柔、自然且符合亞洲人膚色的冷暖平衡色調，不易結塊且能完美修飾臉部輪廓。", "tips": "用修容刷或腮紅刷沾取後，在手背上稍微拍掉多餘粉末，再輕刷於臉頰或下顎線，可少量多次疊加。"},
+  {"id": "peripera", "time": "14:09", "name": "Peripera 水光唇釉 (Ink Mood Glowy)", "en_name": "Peripera Ink Mood Glowy Tint", "category": "makeup", "category_zh": "彩妝與定妝", "img_url": "./images/oy/peripera.jpg", "raw_img": "https://global.oliveyoung.com/search?query=Peripera+Ink+Mood+Glowy+Tint&lang=zh_TW", "momo_url": "https://m.momoshop.com.tw/search.momo?searchKeyword=Peripera+水光唇釉", "features": "玻璃水光感、滋潤修飾唇紋、持久顯色", "skin_type": "唇紋明顯、喜愛水光嘟嘟唇與純欲妝效者", "reason": "平價彩妝之王 Peripera 的明星水光唇釉。上嘴後會形成一層晶瑩剔透的水光膜，質地保濕不乾澀，且帶有輕微的染唇效果，不容易完全掉色，是打造網紅玻璃唇的首選。", "tips": "塗抹於雙唇後，**靜待 1-2 分鐘不要抿嘴**，等它自動成膜後，水光感和持久度會大幅提升。"},
+  {"id": "banila_co", "time": "15:14", "name": "Banila Co 緻柔卸妝膏", "en_name": "Banila Co Clean It Zero Cleansing Balm", "category": "skincare", "category_zh": "臉部清潔", "img_url": "./images/oy/banila_co.jpg", "raw_img": "https://global.oliveyoung.com/search?query=Banila+Co+Clean+It+Zero&lang=zh_TW", "momo_url": "https://m.momoshop.com.tw/search.momo?searchKeyword=Banila+Co+卸妝膏", "features": "雪酪質地、秒乳化、溫和不緊繃", "skin_type": "所有膚質，包括敏感肌與日常化濃妝者", "reason": "風靡全球的「國民卸妝膏」。雪酪般的固體質地，接觸體溫後會瞬間融化並乳化，能溫和、徹底地卸除所有頑固的防水彩妝與毛孔髒污，且洗後完全不熏眼、不緊繃。", "tips": "保持雙手和臉部乾燥，取適量卸妝膏塗抹於臉部輕柔按摩打圈，再沾取少量清水使其完全「乳化」變白，最後用溫水徹底沖洗乾淨。"},
+  {"id": "teazen", "time": "16:29", "name": "Teazen 康普茶 (Kombucha)", "en_name": "Teazen Kombucha", "category": "lifestyle", "category_zh": "健康飲品", "img_url": "./images/oy/teazen.jpg", "raw_img": "https://global.oliveyoung.com/search?query=Teazen+Kombucha&lang=zh_TW", "momo_url": "https://m.momoshop.com.tw/search.momo?searchKeyword=Teazen+康普茶", "features": "低卡無糖、富含益生菌、清爽氣泡感", "skin_type": "注重腸道健康、想戒含糖飲料的健康追求者", "reason": "因為 BTS 成員飲用而火遍全韓的健康機能飲品。採用凍乾技術保留乳酸菌與益生元，沖泡後帶有碳酸微氣泡感，口味酸甜清爽（如檸檬、水蜜桃等），一包熱量僅 15 卡，解膩無負擔。", "tips": "用 250ml - 500ml 的冷水或冰水沖泡，氣泡感會更加強烈，喝起來就像健康的汽水，非常適合作為大餐後的消食飲料。"}
 ];
 
 // 景點寫真照片資料集 (100% 來自《波比看世界》busan-attractions 文章中，且在本次 6 天 5 夜行程內之真實寫實圖)
@@ -721,9 +721,14 @@ function renderOliveYoung(filterCategory = 'all') {
         <p class="product-features" style="font-size: 0.88rem; color: #e2e8f0; margin: 0;">💡 <b>特色：</b>${p.features}</p>
         <p class="product-skin" style="font-size: 0.85rem; color: var(--text-sub); margin: 0;">👤 <b>適用：</b>${p.skin_type}</p>
         <p class="product-reason" style="font-size: 0.88rem; color: #cbd5e1; line-height: 1.5; margin: 0;">${p.reason}</p>
-        <a href="${targetUrl}" target="_blank" rel="noopener" class="map-link-btn" style="margin-top: auto; text-align: center; justify-content: center;">
-          <i class="fa-solid fa-bag-shopping"></i> 前往官方商品頁 🔗
-        </a>
+        <div style="margin-top: auto; display: flex; flex-direction: column; gap: 0.5rem;">
+          <a href="${p.momo_url || `https://m.momoshop.com.tw/search.momo?searchKeyword=${encodeURIComponent(p.name)}`}" target="_blank" rel="noopener" class="map-link-btn" style="text-align: center; justify-content: center; background: linear-gradient(135deg, #ff0055, #ff5e78); color: #fff;">
+            <i class="fa-solid fa-cart-shopping"></i> 前往 MOMO 購物網搜尋 🛒
+          </a>
+          <a href="${targetUrl}" target="_blank" rel="noopener" class="map-link-btn" style="text-align: center; justify-content: center; background: rgba(255,255,255,0.08); border: 1px solid var(--border-light); color: var(--text-sub);">
+            <i class="fa-solid fa-globe"></i> 前往 Olive Young 官網 🔗
+          </a>
+        </div>
       </div>
     `;
   });

diff --git a/busan_2026_itinerary_full_guide_updated_20260726.md b/busan_2026_itinerary_full_guide_updated_20260726.md
@@ -1,7 +1,7 @@
 # 🇰🇷 2026 韓國釜山 6 天 5 夜家族豪華慢遊行程指南 (8人同行全量彙整版)
 
 > **修改日期**：2026 年 7 月 26 日 (Updated 2026-07-26)  
-> **版本**：V7.3 徹底實體化圖片至本地專案目錄 (永不 403 變空白、100% 相符對應)  
+> **版本**：V7.4 雙電商管道 (台灣 MOMO + 韓國 Olive Young) 與 Banila Co / Fillimilli 官網正版實物圖重製版  
 > **適用人數**：全團 8 位成年人（隨身攜帶 8 件 28-30 吋大行李）  
 > **行程定位**：動線流暢、雙方案獨立卡片斷行展示、不走回頭路、兼顧體力與美食新鮮感之家族 slow-travel 體驗。
 
@@ -128,30 +128,30 @@
 
 ---
 
-## 🛍 4. Olive Young 20 大必買好物對照表 (專案本地高清實體圖檔與繁中詳情頁)
+## 🛍 4. Olive Young 20 大必買好物對照表 (雙電商購物管道與正版實物圖)
 
-| 商品名稱 (中/韓) | 本地實體高清圖 | 繁體中文詳情頁鏈結 (含 &lang=zh_TW) |
-| :--- | :--- | :--- |
-| **1. MEDIHEAL 精華面膜片** | ![MEDIHEAL](./images/oy/mediheal.jpg) | [👉 點此前往官方繁中詳情頁](https://global.oliveyoung.com/product/detail?prdtNo=GA250128210&lang=zh_TW) |
-| **2. Biodance 膠原蛋白深層全效面膜** | ![Biodance](./images/oy/biodance.jpg) | [👉 點此前往官方繁中詳情頁](https://global.oliveyoung.com/product/detail?prdtNo=GA230418238&lang=zh_TW) |
-| **3. Torriden 5D微分子玻尿酸保濕精華** | ![Torriden](./images/oy/torriden.jpg) | [👉 點此前往官方繁中詳情頁](https://global.oliveyoung.com/product/detail?prdtNo=GA230920410&lang=zh_TW) |
-| **4. ma:nyo 魔女工廠 純淨潔顏油** | ![manyo](./images/oy/manyo.jpg) | [👉 點此前往官方繁中詳情頁](https://global.oliveyoung.com/product/detail?prdtNo=GA210000733&lang=zh_TW) |
-| **5. AESTURA Atobarrier 365 乳霜** | ![Aestura](./images/oy/aestura.jpg) | [👉 點此前往官方繁中詳情頁](https://global.oliveyoung.com/product/detail?prdtNo=GA240121573&lang=zh_TW) |
-| **6. UNOVE 深層受損修護髮膜** | ![UNOVE](./images/oy/unove.jpg) | [👉 點此前往官方繁中詳情頁](https://global.oliveyoung.com/product/detail?prdtNo=GA220916169&lang=zh_TW) |
-| **7. Round Lab 1025 獨島化妝水** | ![Dokdo](./images/oy/dokdo.jpg) | [👉 點此前往官方繁中詳情頁](https://global.oliveyoung.com/product/detail?prdtNo=GA210002228&lang=zh_TW) |
-| **8. Delight Project 貝果脆片** | ![Bagel Chip](./images/oy/bagel_chip.jpg) | [👉 點此前往官方繁中詳情頁](https://global.oliveyoung.com/product/detail?prdtNo=GA240322301&lang=zh_TW) |
-| **9. Beyond 美白乳液 / 身體乳** | ![Beyond](./images/oy/beyond.jpg) | [👉 點此前往官方繁中詳情頁](https://global.oliveyoung.com/product/detail?prdtNo=GA210711216&lang=zh_TW) |
-| **10. Yunjac 然植亞保濕底霜** | ![Yunjac](./images/oy/yunjac.jpg) | [👉 點此前往官方繁中詳情頁](https://global.oliveyoung.com/product/detail?prdtNo=GA231020780&lang=zh_TW) |
-| **11. OBgE 自然防曬棒** | ![OBgE](./images/oy/obge.jpg) | [👉 點此前往官方繁中詳情頁](https://global.oliveyoung.com/product/detail?prdtNo=GA230519001&lang=zh_TW) |
-| **12. The Saem 得鮮完美遮瑕液** | ![The Saem](./images/oy/the_saem.jpg) | [👉 點此前往官方繁中詳情頁](https://global.oliveyoung.com/product/detail?prdtNo=GA210001099&lang=zh_TW) |
-| **13. About Tone 柔焦控油蜜粉餅** | ![About Tone](./images/oy/about_tone.jpg) | [👉 點此前往官方繁中詳情頁](https://global.oliveyoung.com/product/detail?prdtNo=GA250933463&lang=zh_TW) |
-| **14. So Natural 經典定妝噴霧** | ![So Natural](./images/oy/so_natural.jpg) | [👉 點此前往官方繁中詳情頁](https://global.oliveyoung.com/product/detail?prdtNo=GA231020789&lang=zh_TW) |
-| **15. Canmake 腮紅霜** | ![Canmake](./images/oy/canmake.jpg) | [👉 點此前往官方繁中詳情頁](https://global.oliveyoung.com/product/detail?prdtNo=GA240121700&lang=zh_TW) |
-| **16. Fillimilli 胖胖氣墊粉撲** | ![Fillimilli](./images/oy/fillimilli.jpg) | [👉 點此前往官方繁中詳情頁](https://global.oliveyoung.com/product/detail?prdtNo=GA250933686&lang=zh_TW) |
-| **17. Too Cool for School 修容/腮紅** | ![Too Cool](./images/oy/too_cool.jpg) | [👉 點此前往官方繁中詳情頁](https://global.oliveyoung.com/product/detail?prdtNo=GA240121736&lang=zh_TW) |
-| **18. Peripera 水光唇釉** | ![Peripera](./images/oy/peripera.jpg) | [👉 點此前往官方繁中詳情頁](https://global.oliveyoung.com/product/detail?prdtNo=GA231121205&lang=zh_TW) |
-| **19. Banila Co 緻柔卸妝膏** | ![Banila Co](./images/oy/banila_co.jpg) | [👉 點此前往官方繁中詳情頁](https://global.oliveyoung.com/product/detail?prdtNo=GA260439352&lang=zh_TW) |
-| **20. Teazen 康普茶** | ![Teazen](./images/oy/teazen.jpg) | [👉 點此前往官方繁中詳情頁](https://global.oliveyoung.com/product/detail?prdtNo=GA210711200&lang=zh_TW) |
+| 商品名稱 (中/韓) | 官方正版實物圖 | 🛒 台灣 MOMO 購物網搜尋 | 🇰🇷 韓國 Olive Young 官網 |
+| :--- | :--- | :--- | :--- |
+| **1. MEDIHEAL 精華面膜片** | ![MEDIHEAL](./images/oy/mediheal.jpg) | [👉 MOMO 電商搜尋](https://m.momoshop.com.tw/search.momo?searchKeyword=MEDIHEAL+面膜) | [👉 OY 官網鏈結](https://global.oliveyoung.com/search?query=MEDIHEAL+Essential+Mask&lang=zh_TW) |
+| **2. Biodance 膠原蛋白面膜** | ![Biodance](./images/oy/biodance.jpg) | [👉 MOMO 電商搜尋](https://m.momoshop.com.tw/search.momo?searchKeyword=Biodance+面膜) | [👉 OY 官網鏈結](https://global.oliveyoung.com/search?query=Biodance+Bio-Collagen+Real+Deep+Mask&lang=zh_TW) |
+| **3. Torriden 玻尿酸精華** | ![Torriden](./images/oy/torriden.jpg) | [👉 MOMO 電商搜尋](https://m.momoshop.com.tw/search.momo?searchKeyword=Torriden+玻尿酸精華) | [👉 OY 官網鏈結](https://global.oliveyoung.com/search?query=Torriden+Dive-In+Serum&lang=zh_TW) |
+| **4. ma:nyo 魔女工廠 潔顏油** | ![manyo](./images/oy/manyo.jpg) | [👉 MOMO 電商搜尋](https://m.momoshop.com.tw/search.momo?searchKeyword=魔女工廠+卸妝油) | [👉 OY 官網鏈結](https://global.oliveyoung.com/search?query=manyo+Pure+Cleansing+Oil&lang=zh_TW) |
+| **5. AESTURA Atobarrier 乳霜** | ![Aestura](./images/oy/aestura.jpg) | [👉 MOMO 電商搜尋](https://m.momoshop.com.tw/search.momo?searchKeyword=AESTURA+乳霜) | [👉 OY 官網鏈結](https://global.oliveyoung.com/search?query=AESTURA+Atobarrier+365+Cream&lang=zh_TW) |
+| **6. UNOVE 深層受損修護髮膜** | ![UNOVE](./images/oy/unove.jpg) | [👉 MOMO 電商搜尋](https://m.momoshop.com.tw/search.momo?searchKeyword=UNOVE+髮膜) | [👉 OY 官網鏈結](https://global.oliveyoung.com/search?query=UNOVE+Deep+Damage+Treatment&lang=zh_TW) |
+| **7. Round Lab 1025 獨島化妝水** | ![Dokdo](./images/oy/dokdo.jpg) | [👉 MOMO 電商搜尋](https://m.momoshop.com.tw/search.momo?searchKeyword=獨島化妝水) | [👉 OY 官網鏈結](https://global.oliveyoung.com/search?query=Round+Lab+1025+Dokdo+Toner&lang=zh_TW) |
+| **8. Delight Project 貝果脆片** | ![Bagel Chip](./images/oy/bagel_chip.jpg) | [👉 MOMO 電商搜尋](https://m.momoshop.com.tw/search.momo?searchKeyword=Delight+Project+貝果餅乾) | [👉 OY 官網鏈結](https://global.oliveyoung.com/search?query=Delight+Project+Bagel+Chip&lang=zh_TW) |
+| **9. Beyond 美白乳液 / 身體乳** | ![Beyond](./images/oy/beyond.jpg) | [👉 MOMO 電商搜尋](https://m.momoshop.com.tw/search.momo?searchKeyword=Beyond+身體乳) | [👉 OY 官網鏈結](https://global.oliveyoung.com/search?query=Beyond+Body+Emulsion&lang=zh_TW) |
+| **10. Yunjac 然植亞保濕底霜** | ![Yunjac](./images/oy/yunjac.jpg) | [👉 MOMO 電商搜尋](https://m.momoshop.com.tw/search.momo?searchKeyword=Yunjac+妝前) | [👉 OY 官網鏈結](https://global.oliveyoung.com/search?query=Yunjac+Base+Prep&lang=zh_TW) |
+| **11. OBgE 自然防曬棒** | ![OBgE](./images/oy/obge.jpg) | [👉 MOMO 電商搜尋](https://m.momoshop.com.tw/search.momo?searchKeyword=OBgE+防曬) | [👉 OY 官網鏈結](https://global.oliveyoung.com/search?query=OBgE+Sun+Stick&lang=zh_TW) |
+| **12. The Saem 得鮮完美遮瑕液** | ![The Saem](./images/oy/the_saem.jpg) | [👉 MOMO 電商搜尋](https://m.momoshop.com.tw/search.momo?searchKeyword=The+Saem+遮瑕液) | [👉 OY 官網鏈結](https://global.oliveyoung.com/search?query=The+Saem+Concealer&lang=zh_TW) |
+| **13. About Tone 柔焦控油蜜粉餅** | ![About Tone](./images/oy/about_tone.jpg) | [👉 MOMO 電商搜尋](https://m.momoshop.com.tw/search.momo?searchKeyword=About+Tone+蜜粉餅) | [👉 OY 官網鏈結](https://global.oliveyoung.com/search?query=About+Tone+Blur+Powder+Pact&lang=zh_TW) |
+| **14. So Natural 經典定妝噴霧** | ![So Natural](./images/oy/so_natural.jpg) | [👉 MOMO 電商搜尋](https://m.momoshop.com.tw/search.momo?searchKeyword=So+Natural+定妝噴霧) | [👉 OY 官網鏈結](https://global.oliveyoung.com/search?query=So+Natural+Fixer&lang=zh_TW) |
+| **15. Canmake 腮紅霜** | ![Canmake](./images/oy/canmake.jpg) | [👉 MOMO 電商搜尋](https://m.momoshop.com.tw/search.momo?searchKeyword=Canmake+腮紅霜) | [👉 OY 官網鏈結](https://global.oliveyoung.com/search?query=Canmake+Cream+Cheek&lang=zh_TW) |
+| **16. Fillimilli 胖胖氣墊粉撲** | ![Fillimilli](./images/oy/fillimilli.jpg) | [👉 MOMO 電商搜尋 (直達)](https://m.momoshop.com.tw/search.momo?searchKeyword=Fillimilli+粉撲) | [👉 OY 官網鏈結](https://global.oliveyoung.com/search?query=Fillimilli+Puff&lang=zh_TW) |
+| **17. Too Cool for School 修容/腮紅** | ![Too Cool](./images/oy/too_cool.jpg) | [👉 MOMO 電商搜尋](https://m.momoshop.com.tw/search.momo?searchKeyword=Too+Cool+for+School+修容) | [👉 OY 官網鏈結](https://global.oliveyoung.com/search?query=Too+Cool+for+School+Artclass+Shading&lang=zh_TW) |
+| **18. Peripera 水光唇釉** | ![Peripera](./images/oy/peripera.jpg) | [👉 MOMO 電商搜尋](https://m.momoshop.com.tw/search.momo?searchKeyword=Peripera+水光唇釉) | [👉 OY 官網鏈結](https://global.oliveyoung.com/search?query=Peripera+Ink+Mood+Glowy+Tint&lang=zh_TW) |
+| **19. Banila Co 緻柔卸妝膏** | ![Banila Co](./images/oy/banila_co.jpg) | [👉 MOMO 電商搜尋](https://m.momoshop.com.tw/search.momo?searchKeyword=Banila+Co+卸妝膏) | [👉 OY 官網鏈結](https://global.oliveyoung.com/search?query=Banila+Co+Clean+It+Zero&lang=zh_TW) |
+| **20. Teazen 康普茶** | ![Teazen](./images/oy/teazen.jpg) | [👉 MOMO 電商搜尋](https://m.momoshop.com.tw/search.momo?searchKeyword=Teazen+康普茶) | [👉 OY 官網鏈結](https://global.oliveyoung.com/search?query=Teazen+Kombucha&lang=zh_TW) |
 
 ---
 
